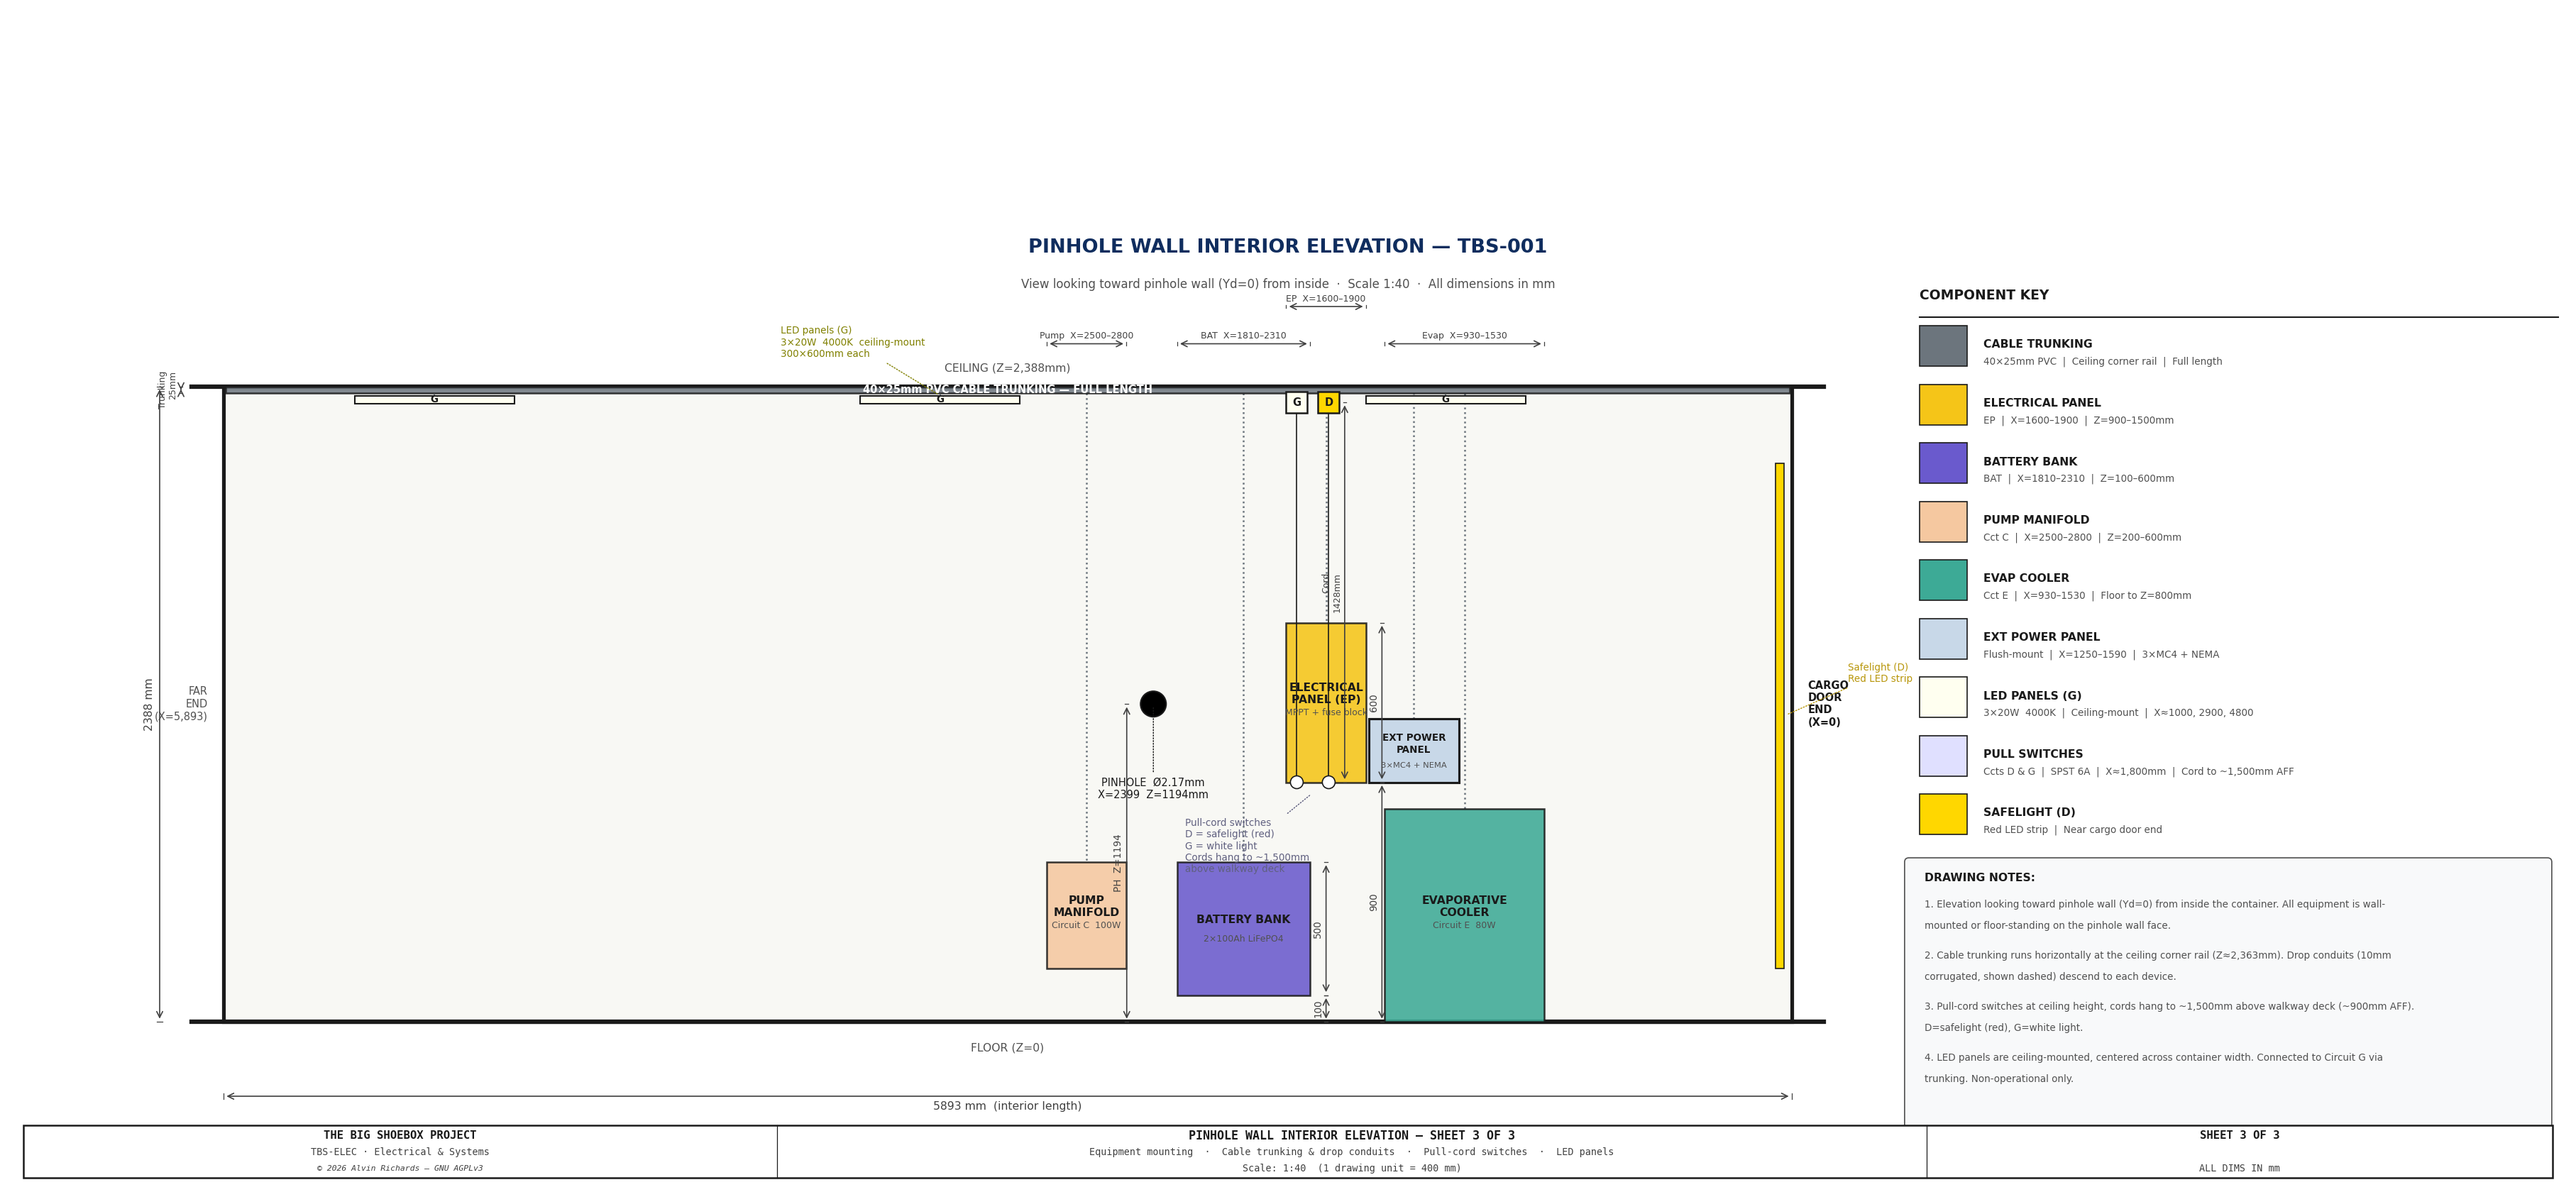
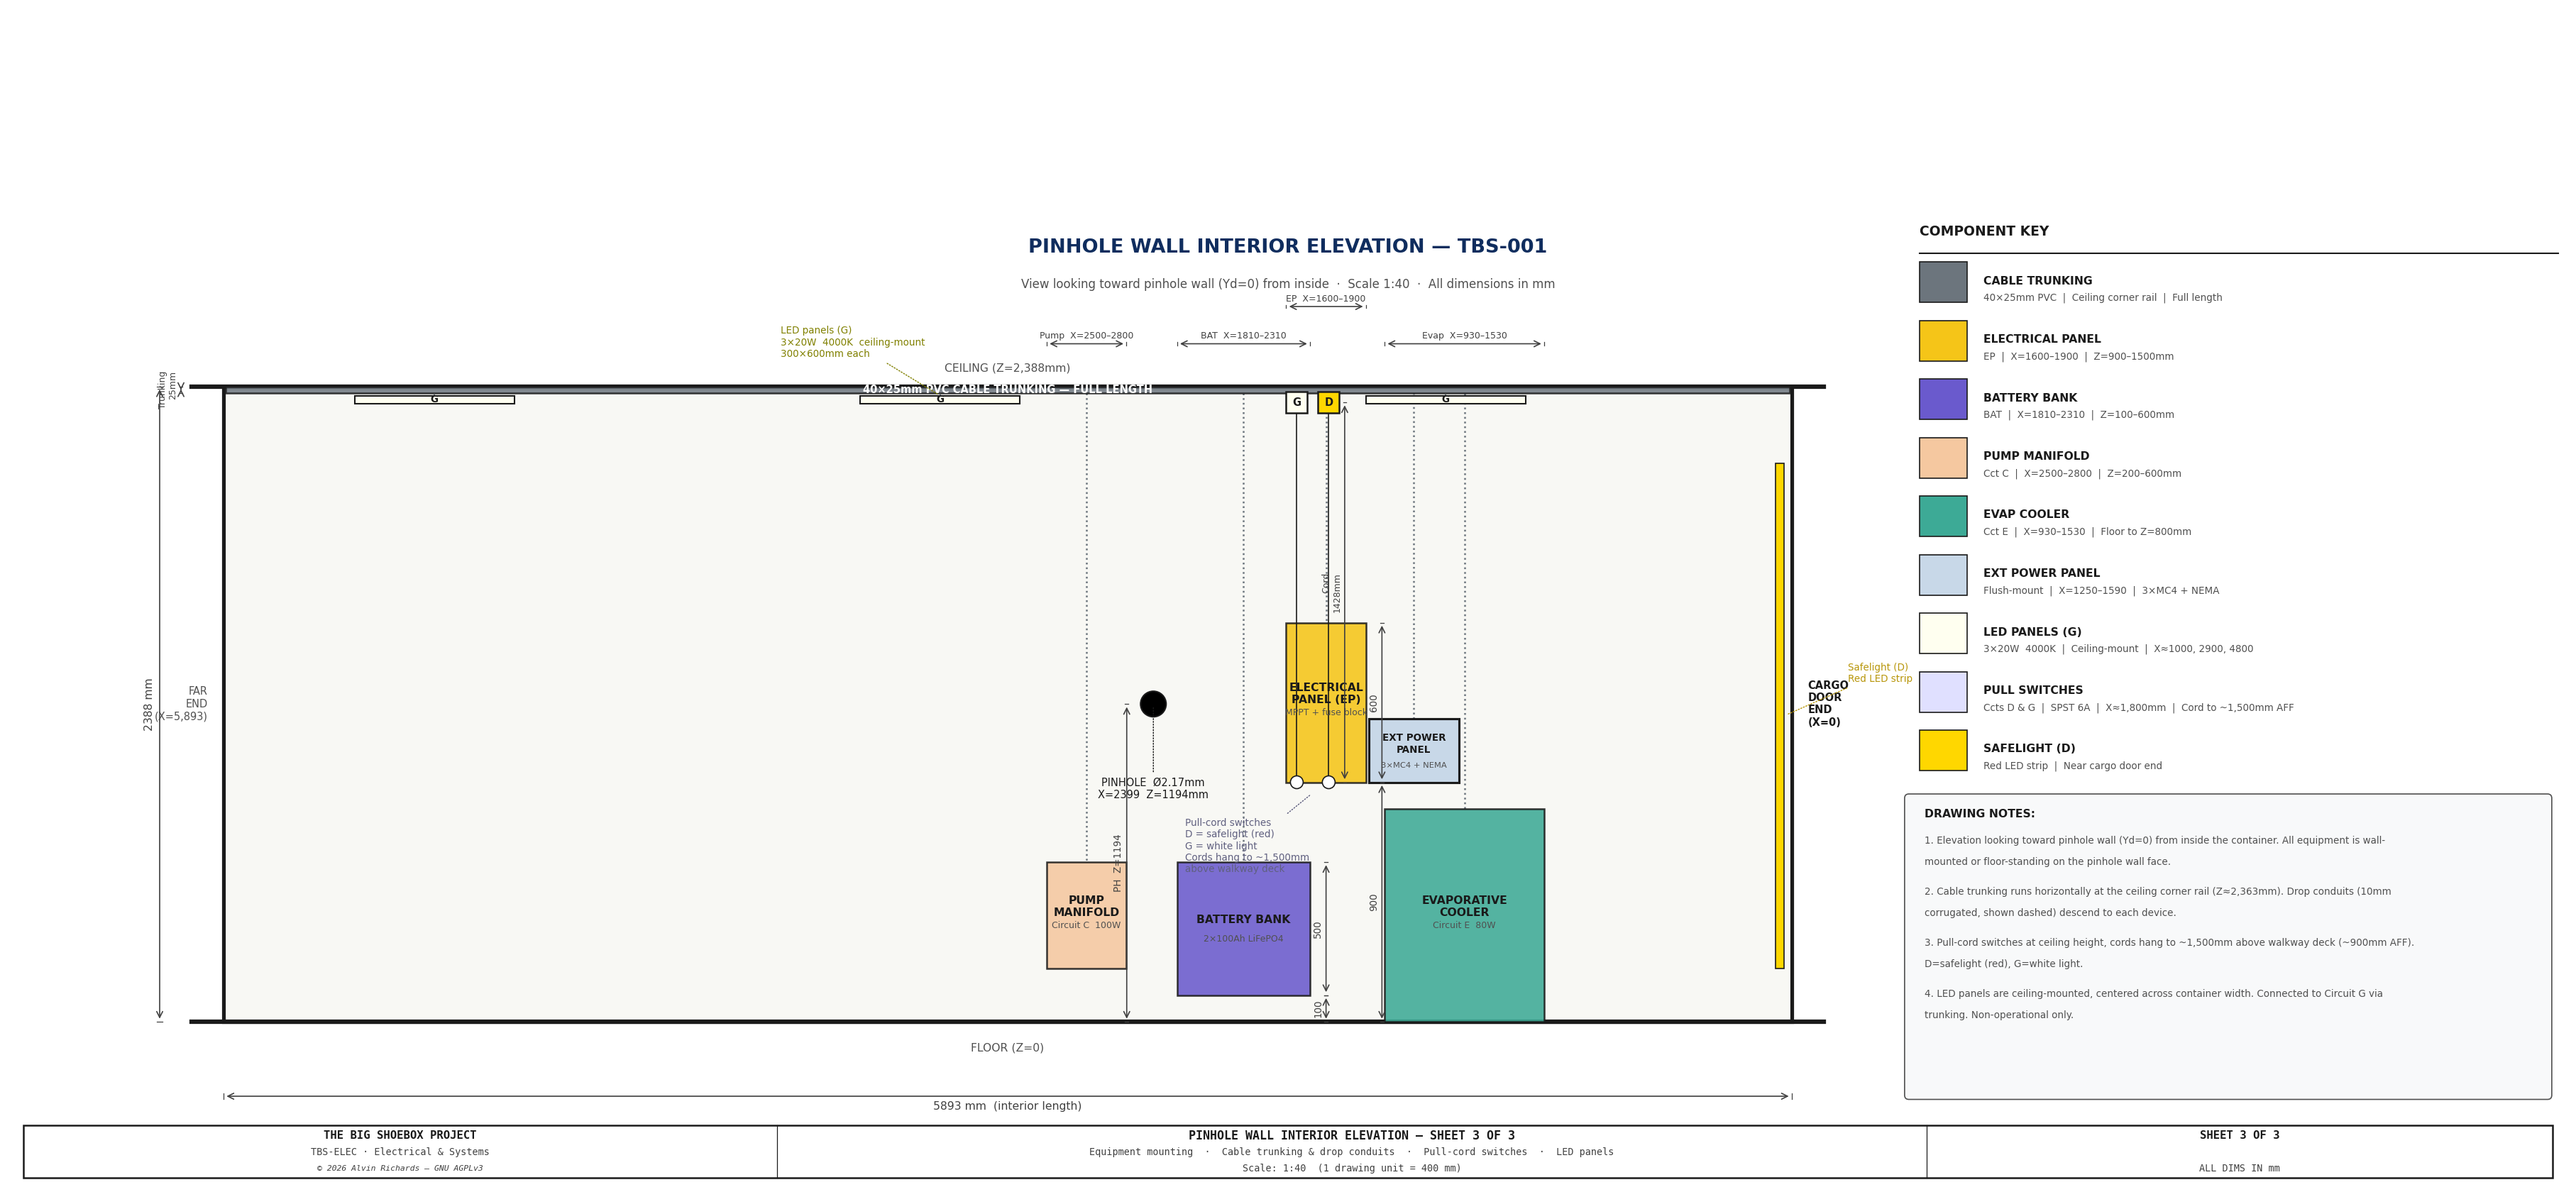
Raise component key on electrical sheet 3

Changed region(s): [[0.7471, 0.1857, 0.9339, 0.8667], [0.7471, 0.8976, 0.8094, 0.9286]]

diff --git a/generate_electrical_diagram.py b/generate_electrical_diagram.py
@@ -1191,7 +1191,7 @@ def draw_sheet3():
 
     # ── Component key (right of elevation) ────────────────────────────────────
     KX = OX + wlen + 1.2
-    KY = OY + whgt + 0.6
+    KY = OY + whgt + 1.2
     ax.text(KX, KY + 0.25, "COMPONENT KEY",
             ha="left", va="center", fontsize=9.0, fontweight="bold", color=C_OUT)
     ax.plot([KX, KX + 6.0], [KY + 0.05, KY + 0.05], color=C_OUT, lw=1.0)
